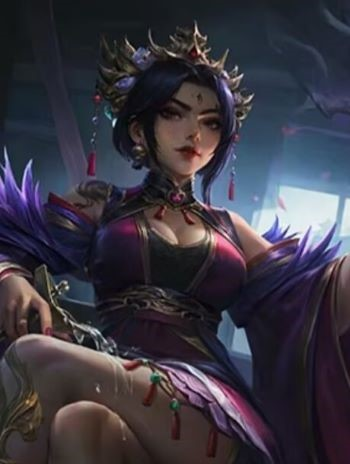
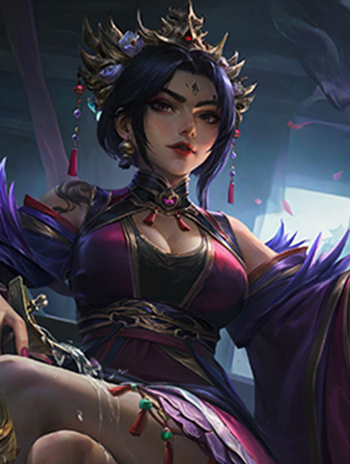
贾南风原画更换，调整获取语音的方式

diff --git a/noname/ui/click/index.js b/noname/ui/click/index.js
@@ -3368,12 +3368,12 @@ export class Click {
 			}
 			
 			// 添加台词部分
-			let dieAudios = game.parseDieTextMap(audioName).map(i => i.text).filter(Boolean);
-			if(!dieAudios.length) dieAudios = game.parseDieTextMap(name).map(i => i.text).filter(Boolean);
+			let dieAudios = get.Audio.die({ player: audioName }).audioList.map(i => i.text).filter(Boolean);
+			if(!dieAudios.length) dieAudios = get.Audio.die({ player: name }).audioList.map(i => i.text).filter(Boolean);
 			const skillAudioMap = new Map();
 			nameinfo.skills.forEach(skill => {
-				let voiceMap = game.parseSkillText(skill, audioName);
-				if(!voiceMap.length) voiceMap = game.parseSkillText(skill, name);
+				let voiceMap = get.Audio.skill({ skill, player: audioName }).textList;
+				if(!voiceMap.length) voiceMap = get.Audio.skill({ skill, player: name }).textList;
 				if(voiceMap.length) skillAudioMap.set(skill, voiceMap);
 			});
 			const derivationSkillAudioMap = new Map();
@@ -3386,8 +3386,8 @@ export class Click {
 					}
 					for(var i=0; i<derivation.length; i++) {
 						if (derivation[i].indexOf('_faq') != -1) continue;
-						let derivationVoiceMap = game.parseSkillText(derivation[i], audioName);
-						if(!derivationVoiceMap.length) derivationVoiceMap = game.parseSkillText(derivation[i], name);
+						let derivationVoiceMap = get.Audio.skill({ skill: derivation[i], player: audioName }).textList;
+						if(!derivationVoiceMap.length) derivationVoiceMap = get.Audio.skill({ skill: derivation[i], player: name }).textList;
 						if(derivationVoiceMap.length) derivationSkillAudioMap.set(derivation[i], derivationVoiceMap);
 					}
 				}
@@ -3718,12 +3718,12 @@ export class Click {
 			Array.from(htmlParser.childNodes).forEach((value) => introduction.appendChild(value));
 			
 			// 添加台词部分
-			let dieAudios = game.parseDieTextMap(audioName).map(i => i.text).filter(Boolean);
-			if(!dieAudios.length) dieAudios = game.parseDieTextMap(name).map(i => i.text).filter(Boolean);
+			let dieAudios = get.Audio.die({ player: audioName }).audioList.map(i => i.text).filter(Boolean);
+			if(!dieAudios.length) dieAudios = get.Audio.die({ player: name }).audioList.map(i => i.text).filter(Boolean);
 			const skillAudioMap = new Map();
 			nameInfo.skills.forEach(skill => {
-				let voiceMap = game.parseSkillText(skill, audioName);
-				if(!voiceMap.length) voiceMap = game.parseSkillText(skill, name);
+				let voiceMap = get.Audio.skill({ skill, player: audioName }).textList;
+				if(!voiceMap.length) voiceMap = get.Audio.skill({ skill, player: name }).textList;
 				if(voiceMap.length) skillAudioMap.set(skill, voiceMap);
 			});
 			const derivationSkillAudioMap = new Map();
@@ -3736,8 +3736,8 @@ export class Click {
 					}
 					for(var i=0; i<derivation.length; i++) {
 						if (derivation[i].indexOf('_faq') != -1) continue;
-						let derivationVoiceMap = game.parseSkillText(derivation[i], audioName);
-						if(!derivationVoiceMap.length) derivationVoiceMap = game.parseSkillText(derivation[i], name);
+						let derivationVoiceMap = get.Audio.skill({ skill: derivation[i], player: audioName }).textList;
+						if(!derivationVoiceMap.length) derivationVoiceMap = get.Audio.skill({ skill: derivation[i], player: name }).textList;
 						if(derivationVoiceMap.length) derivationSkillAudioMap.set(derivation[i], derivationVoiceMap);
 					}
 				}

diff --git a/character/collab/skill.js b/character/collab/skill.js
@@ -768,7 +768,7 @@ const skills = {
 					list = Object.keys(map);
 				if (list.length > 0) {
 					const skill = list.randomGet(),
-						voiceMap = game.parseSkillTextMap(skill, map[skill]);
+						voiceMap = get.Audio.skill({ skill, player: map[skill] }).audioList;
 					player.storage.dcbenxi_pending = skill;
 					findaudio: for (let data of voiceMap) {
 						if (!data.text) continue;
@@ -834,7 +834,7 @@ const skills = {
 							const info = get.info(skill);
 							if (!info || (info.ai && info.ai.combo)) return;
 							if (skill in _status.dcbenxi_map) return;
-							const voices = game.parseSkillText(skill, name);
+							const voices = get.Audio.skill({ skill, name }).textList;
 							if (
 								voices.some(text => {
 									const pinyins = get.pinyin(text, false);

diff --git a/noname/library/index.js b/noname/library/index.js
@@ -955,7 +955,7 @@ export class Library {
 				},
 				sync_speed: {
 					name: "限制结算速度",
-					intro: "在动画结算完成前不执行下一步操作，开启后游戏操作的间隔更长但画面更浏畅，在游戏较卡时建议开启",
+					intro: "在动画结算完成前不执行下一步操作，开启后游戏操作的间隔更长但画面更流畅，在游戏较卡时建议开启",
 					init: true,
 				},
 				enable_vibrate: {
